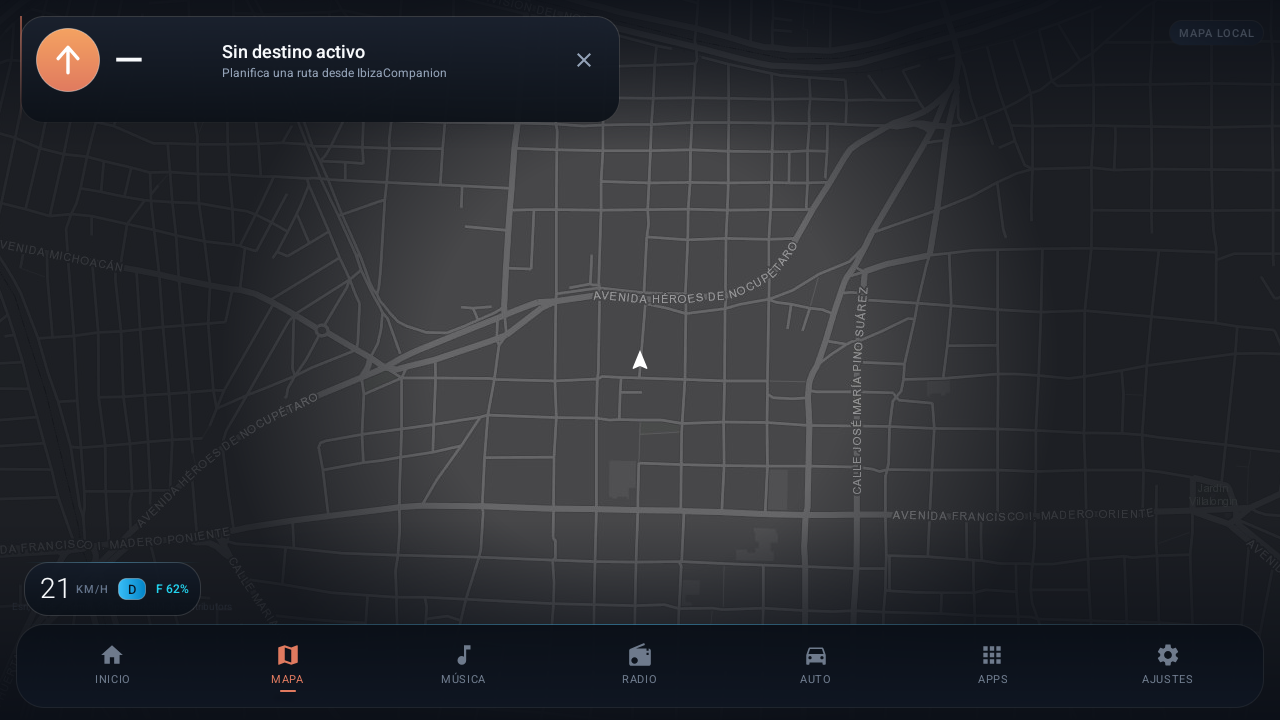
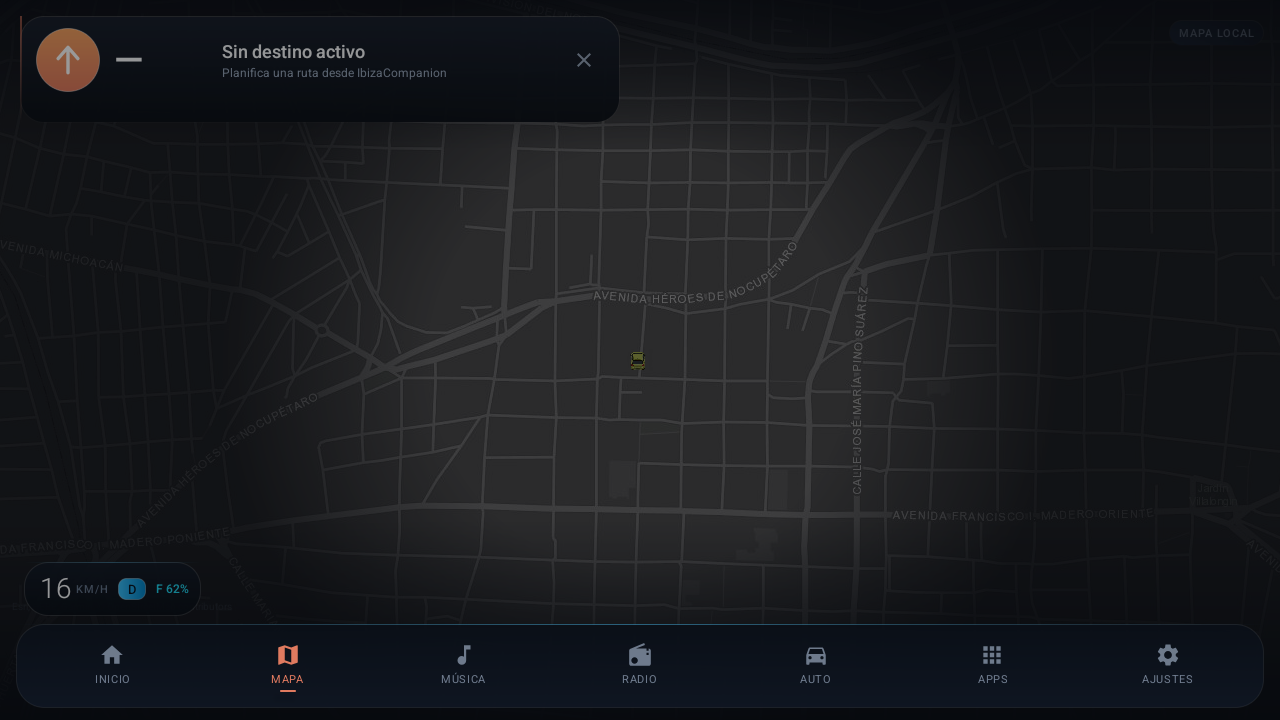
coche: assets oficiales, luces on/off y marcador de minimapa por rumbo
Se integran las dos hojas de renders del Ibiza: coche principal con faros apagados/encendidos conectado al broadcast light_recieve, y 8 angulos para el coche del minimapa elegidos por bearing. Se elimina el recorte con sombra en bloques. Version 1.7.0 en estereo y telefono; galeria con captura de luces encendidas.

diff --git a/app/src/main/java/com/chronosbvrx/ibizadash/MainActivity.kt b/app/src/main/java/com/chronosbvrx/ibizadash/MainActivity.kt
@@ -120,6 +120,8 @@ class MainActivity : AppCompatActivity(), LocationListener {
     private lateinit var healthRow: View
     private lateinit var headlightState: TextView
     private lateinit var headlightGlow: View
+    private lateinit var carRender: ImageView
+    private var carLightsOn = false
     private lateinit var dock: LinearLayout
 
     // Continuous canvas
@@ -370,6 +372,8 @@ class MainActivity : AppCompatActivity(), LocationListener {
     private var lastUserMapTouchMs = 0L
     private var lastFollowCenterMs = 0L
     private var currentBearingDeg = 0f
+    private var mapSpriteKey = ""
+    private var lastDisplayBearing = 0f
     private var bearingAnimator: android.animation.ValueAnimator? = null
     private var lastNavState: NavState? = null
 
@@ -399,7 +403,11 @@ class MainActivity : AppCompatActivity(), LocationListener {
         if (!RemoteMapBridge.active) {
             try {
                 positionMarker?.position = GeoPoint(state.snappedLat, state.snappedLon)
-                if (state.bearing > 0) positionMarker?.rotation = state.bearing
+                if (state.bearing > 0) {
+                    updateMapMarkerSprite(state.bearing, carLightsOn)
+                } else {
+                    updateMapMarkerSprite(lastDisplayBearing, carLightsOn)
+                }
                 map.invalidate()
             } catch (_: Exception) {
             }
@@ -586,6 +594,7 @@ class MainActivity : AppCompatActivity(), LocationListener {
             hasLightData = true
             refreshHealthRow()
             headlightGlow.visibility = if (value > 0) View.VISIBLE else View.GONE
+            setCarLights(value > 0)
             headlightState.text = if (value > 0) "Luces ON" else "Luces off"
             headlightState.setTextColor(
                 ContextCompat.getColor(
@@ -630,7 +639,12 @@ class MainActivity : AppCompatActivity(), LocationListener {
         setupObd()
         setupNavBridge()
         try {
-            registerReceiver(lightReceiver, IntentFilter("light_recieve"))
+            ContextCompat.registerReceiver(
+                this,
+                lightReceiver,
+                IntentFilter("light_recieve"),
+                ContextCompat.RECEIVER_EXPORTED
+            )
         } catch (_: Exception) {
         }
         try {
@@ -702,6 +716,7 @@ class MainActivity : AppCompatActivity(), LocationListener {
         healthRow = findViewById(R.id.healthRow)
         healthRow.visibility = View.GONE // Sin dato, no se muestra (ver refreshHealthRow).
         headlightGlow = findViewById(R.id.headlightGlow)
+        carRender = findViewById(R.id.carRender)
         callBanner = findViewById(R.id.callBanner)
         callText = findViewById(R.id.callText)
         btnAnswer = findViewById(R.id.btnAnswer)
@@ -1488,6 +1503,53 @@ class MainActivity : AppCompatActivity(), LocationListener {
             bar.animateTo(trim)
         }
         metricBars[R.id.vVoltage]?.animateTo(s.batteryV)
+    }
+
+    private fun setCarLights(on: Boolean) {
+        carLightsOn = on
+        if (::carRender.isInitialized) {
+            carRender.setImageResource(if (on) R.drawable.ibiza_on else R.drawable.ibiza_off)
+        }
+        updateMapMarkerSprite(lastDisplayBearing, on)
+    }
+
+    /** El coche del minimapa cambia de ángulo según el rumbo. */
+    private fun updateMapMarkerSprite(bearing: Float, lightsOn: Boolean) {
+        lastDisplayBearing = bearing
+        val marker = positionMarker ?: return
+        val sector = if (map.mapOrientation != 0f) {
+            // Mapa girado: el sprite debe apuntar siempre hacia arriba.
+            "n"
+        } else {
+            val normalized = ((bearing % 360f) + 360f) % 360f
+            val idx = (((normalized + 22.5f) / 45f).toInt()) % 8
+            arrayOf("n", "ne", "e", "se", "s", "sw", "w", "nw")[idx]
+        }
+        val key = "${sector}_${if (lightsOn) "on" else "off"}"
+        if (key == mapSpriteKey) return
+        val res = mapCarRes(sector, lightsOn)
+        if (res == 0) return
+        val bitmap = android.graphics.BitmapFactory.decodeResource(resources, res) ?: return
+        val width = dp(26)
+        val height = (width * bitmap.height / bitmap.width.toFloat())
+            .toInt().coerceIn(dp(12), dp(30))
+        val scaled = android.graphics.Bitmap.createScaledBitmap(bitmap, width, height, true)
+        marker.icon = android.graphics.drawable.BitmapDrawable(resources, scaled)
+        marker.rotation = 0f
+        mapSpriteKey = key
+        map.invalidate()
+    }
+
+    private fun mapCarRes(sector: String, lightsOn: Boolean): Int = when (sector) {
+        "n" -> if (lightsOn) R.drawable.map_car_n_on else R.drawable.map_car_n_off
+        "ne" -> if (lightsOn) R.drawable.map_car_ne_on else R.drawable.map_car_ne_off
+        "e" -> if (lightsOn) R.drawable.map_car_e_on else R.drawable.map_car_e_off
+        "se" -> if (lightsOn) R.drawable.map_car_se_on else R.drawable.map_car_se_off
+        "s" -> if (lightsOn) R.drawable.map_car_s_on else R.drawable.map_car_s_off
+        "sw" -> if (lightsOn) R.drawable.map_car_sw_on else R.drawable.map_car_sw_off
+        "w" -> if (lightsOn) R.drawable.map_car_w_on else R.drawable.map_car_w_off
+        "nw" -> if (lightsOn) R.drawable.map_car_nw_on else R.drawable.map_car_nw_off
+        else -> 0
     }
 
     private fun renderObd(state: ObdTelemetry) {
@@ -2892,6 +2954,7 @@ class MainActivity : AppCompatActivity(), LocationListener {
                 m.title = ""
                 map.overlays.add(m)
                 positionMarker = m
+                updateMapMarkerSprite(lastDisplayBearing, carLightsOn)
             } catch (_: Exception) {
             }
         }
@@ -2941,7 +3004,7 @@ class MainActivity : AppCompatActivity(), LocationListener {
                 )
                 positionMarker?.position = GeoPoint(slat, slon)
                 if (location.hasBearing() && speedKmh > 3f) {
-                    positionMarker?.rotation = location.bearing
+                    updateMapMarkerSprite(location.bearing, carLightsOn)
                 }
                 val now = android.os.SystemClock.elapsedRealtime()
                 // Si el usuario movió el mapa, vuelve a seguir solo.
@@ -3244,6 +3307,7 @@ class MainActivity : AppCompatActivity(), LocationListener {
             map.mapOrientation = 0f
         } catch (_: Exception) {
         }
+        updateMapMarkerSprite(lastDisplayBearing, carLightsOn)
     }
 
     /** Pinta la tarjeta flotante de navegación con el estado actual. */

diff --git a/docs/screenshots/gallery.html b/docs/screenshots/gallery.html
@@ -170,9 +170,9 @@
     El buscador del teléfono prioriza negocios y direcciones de tu zona en México.
   </p>
   <div class="badges">
-    <span class="badge">IbizaDash 1.6.3 · estéreo</span>
-    <span class="badge alt">IbizaCompanion 1.6.3 · teléfono</span>
-    <span class="badge green">14 pantallas del estéreo</span>
+    <span class="badge">IbizaDash 1.7.0 · estéreo</span>
+    <span class="badge alt">IbizaCompanion 1.7.0 · teléfono</span>
+    <span class="badge green">15 pantallas del estéreo</span>
     <span class="badge green">8 pantallas del teléfono</span>
   </div>
 </header>
@@ -194,6 +194,11 @@
       <article class="shot">
         <button onclick="show(this,'Inicio','Mapa, velocidad, estado del coche, reproductor y salud del motor en una sola vista.')"><img src="stereo/01-inicio.png" alt="Inicio IbizaDash" loading="lazy"></button>
         <div class="meta"><h3>Inicio</h3><p>Mapa, velocidad, estado del coche, reproductor y salud del motor en una sola vista.</p></div>
+      </article>
+
+      <article class="shot">
+        <button onclick="show(this,'Luces encendidas','El render cambia a faros encendidos cuando el coche enciende las luces.')"><img src="stereo/17-luces-encendidas.png" alt="Luces encendidas IbizaDash" loading="lazy"></button>
+        <div class="meta"><h3>Luces encendidas</h3><p>El render cambia a faros encendidos cuando el coche enciende las luces.</p></div>
       </article>
 
       <article class="shot">
@@ -316,7 +321,7 @@
     <h2><span class="dot"></span>Hojas de contacto</h2>
     <p class="section-sub">Vista rápida de todas las pantallas en una sola imagen.</p>
     <div class="contact">
-      <a href="contact-sheet-stereo.png" target="_blank"><img src="contact-sheet-stereo.png" alt="Hoja de contacto del estéreo" loading="lazy"><span>IbizaDash · 14 pantallas</span></a>
+      <a href="contact-sheet-stereo.png" target="_blank"><img src="contact-sheet-stereo.png" alt="Hoja de contacto del estéreo" loading="lazy"><span>IbizaDash · 15 pantallas</span></a>
       <a href="contact-sheet-phone.png" target="_blank"><img src="contact-sheet-phone.png" alt="Hoja de contacto del teléfono" loading="lazy"><span>IbizaCompanion · 8 pantallas</span></a>
     </div>
   </section>
@@ -326,7 +331,7 @@
 <footer>
   Capturas reales del emulador (1280×720) con datos OBD de demostración y el paquete offline de Morelia.
   Haz clic en cualquier captura para verla a tamaño completo.
-  · IbizaDash 1.6.3 · IbizaCompanion 1.6.3 ·
+  · IbizaDash 1.7.0 · IbizaCompanion 1.7.0 ·
   <a href="https://github.com/ChronosBVRX/IbizaDash" style="color:#1fb6ff">ChronosBVRX/IbizaDash</a>
 </footer>
 

diff --git a/README.md b/README.md
@@ -12,7 +12,7 @@ Launcher/dashboard estilo Tesla para el **SEAT Ibiza 6J 2010, 2.0 Style 4 puerta
   (capturas reales del estéreo y del teléfono, con hojas de contacto).
 - **Paquete del estéreo:** `com.chronosbvrx.ibizadash`
 - **Paquete del teléfono:** `com.chronosbvrx.ibizacompanion`
-- **Versiones actuales:** IbizaDash **1.6.3** (versionCode 27) · IbizaCompanion **1.6.3** (versionCode 21)
+- **Versiones actuales:** IbizaDash **1.7.0** (versionCode 28) · IbizaCompanion **1.7.0** (versionCode 22)
 - **minSdk 23 / targetSdk 33 / compileSdk 36** (estéreo)
 - Hecho con **Views** (sin Compose) en el estéreo para que sea liviano en el Cortex-A7.
 
@@ -25,6 +25,7 @@ Launcher/dashboard estilo Tesla para el **SEAT Ibiza 6J 2010, 2.0 Style 4 puerta
 - **Barras OEM** en Motor, Eléctrico y combustible: riel hundido, marcas, gradiente,
   punta luminosa, zonas de voltaje y animación de 160 ms.
 - **Mapa con viñeta** y **Música con portada desenfocada** al 20 %.
+- **Coche principal** con variantes de faros apagados/encendidos y **minimapa con 8 ángulos** según el rumbo.
 - **Feedback al tocar:** escala al 97 % durante 90 ms en botones, tabs y dock.
 
 

diff --git a/docs/screenshots/GALLERY.md b/docs/screenshots/GALLERY.md
@@ -1,4 +1,4 @@
-# Galería de pantallas · IbizaDash 1.6.3 + IbizaCompanion 1.6.3
+# Galería de pantallas · IbizaDash 1.7.0 + IbizaCompanion 1.7.0
 
 Capturas reales del emulador a 1280×720, con datos OBD de demostración y el
 paquete offline de Morelia. Haz clic en cualquier imagen para verla completa.
@@ -16,6 +16,12 @@ paquete offline de Morelia. Haz clic en cualquier imagen para verla completa.
 [![Inicio](stereo/01-inicio.png)](stereo/01-inicio.png)
 
 Mapa, velocidad, estado del coche, reproductor y salud del motor en una sola vista.
+
+### Luces encendidas
+
+[![Luces encendidas](stereo/17-luces-encendidas.png)](stereo/17-luces-encendidas.png)
+
+El render cambia a faros encendidos cuando el coche enciende las luces.
 
 ### Mapa
 

diff --git a/docs/screenshots/README.md b/docs/screenshots/README.md
@@ -19,8 +19,8 @@ Haz clic en cualquier captura para verla a tamaño completo.
 
 | Carpeta | App | Pantallas |
 |---|---|---|
-| `stereo/` | IbizaDash 1.6.3 | Inicio, mapa, música, radio, mi auto, diagnóstico, motor, eléctrico, fallas, consola, ajustes rápidos, conexión, ajustes y apps |
-| `phone/` | IbizaCompanion 1.6.3 | Inicio, rutas, música, conexión, OTA, ajustes, módulos y sistema |
+| `stereo/` | IbizaDash 1.7.0 | Inicio, luces encendidas, mapa, música, radio, mi auto, diagnóstico, motor, eléctrico, fallas, consola, ajustes rápidos, conexión, ajustes y apps |
+| `phone/` | IbizaCompanion 1.7.0 | Inicio, rutas, música, conexión, OTA, ajustes, módulos y sistema |
 
 Hojas de contacto:
 
